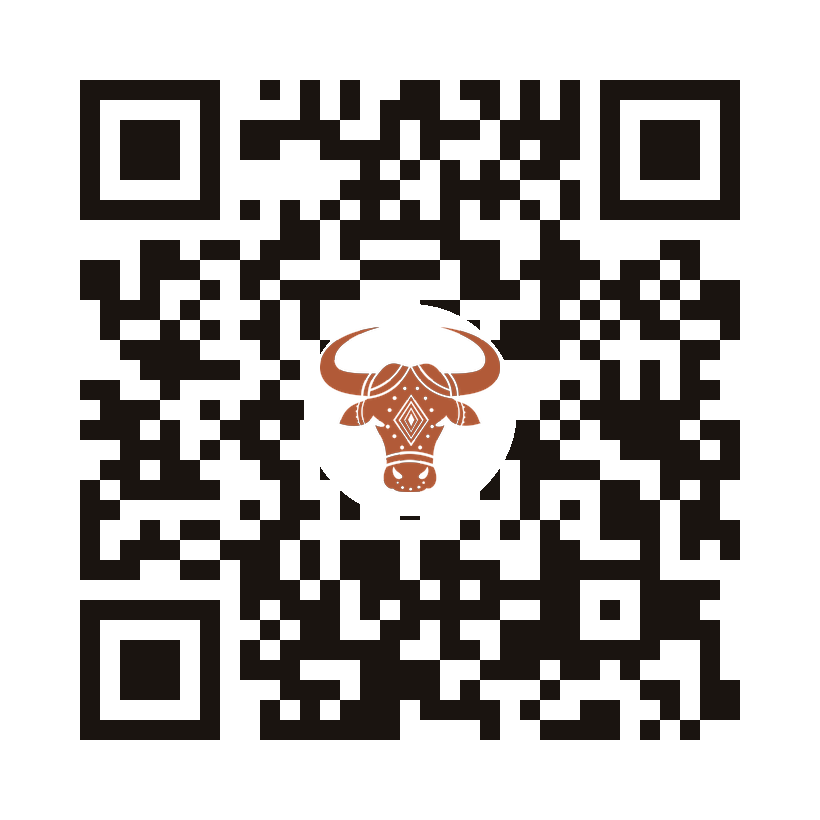
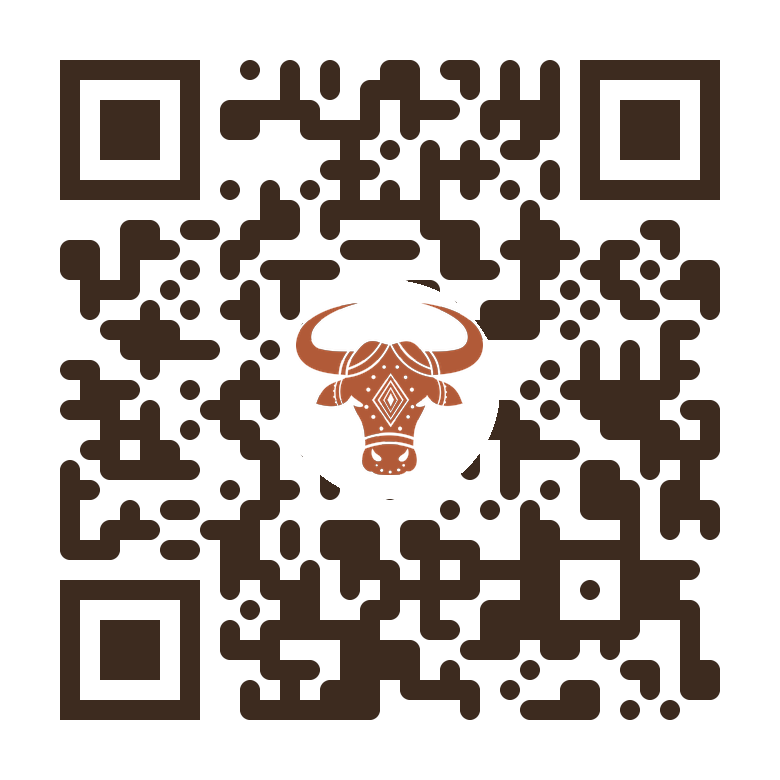
Add QR codes for App Store/Google Play to Get the App page, revise step 2 instructions across EN/FR/AR

diff --git a/ar/get-the-app.html b/ar/get-the-app.html
@@ -81,27 +81,29 @@
       </div>
 
       <div class="app-download-cards">
-        <a href="https://apps.apple.com/app/expo-go/id982107779" target="_blank" rel="noopener noreferrer" class="app-download-card reveal">
+        <div class="app-download-card reveal">
           <div class="app-download-card__icon">
             <svg viewBox="0 0 24 24" fill="currentColor" width="48" height="48"><path d="M18.71 19.5c-.83 1.24-1.71 2.45-3.05 2.47-1.34.03-1.77-.79-3.29-.79-1.53 0-2 .77-3.27.82-1.31.05-2.3-1.32-3.14-2.53C4.25 17 2.94 12.45 4.7 9.39c.87-1.52 2.43-2.48 4.12-2.51 1.28-.02 2.5.87 3.29.87.78 0 2.26-1.07 3.8-.91.65.03 2.47.26 3.64 1.98-.09.06-2.17 1.28-2.15 3.81.03 3.02 2.65 4.03 2.68 4.04-.03.07-.42 1.44-1.38 2.83M13 3.5c.73-.83 1.94-1.46 2.94-1.5.13 1.17-.34 2.35-1.04 3.19-.69.85-1.83 1.51-2.95 1.42-.15-1.15.41-2.35 1.05-3.11z"/></svg>
           </div>
           <h3 class="app-download-card__title">App Store</h3>
-          <p class="app-download-card__desc">حمّل Expo Go لأجهزة iPhone و iPad</p>
-          <span class="app-download-card__link">
-            فتح App Store <i data-feather="external-link"></i>
-          </span>
-        </a>
+          <p class="app-download-card__desc">امسح لتحميل Expo Go لأجهزة iPhone و iPad</p>
+          <img src="../assets/images/qr-appstore.png" alt="رمز QR لتحميل Expo Go من App Store" class="app-download-card__qr">
+          <a href="https://apps.apple.com/app/expo-go/id982107779" target="_blank" rel="noopener noreferrer" class="app-download-card__link">
+            أو افتح الرابط مباشرة <i data-feather="external-link"></i>
+          </a>
+        </div>
 
-        <a href="https://play.google.com/store/apps/details?id=host.exp.exponent" target="_blank" rel="noopener noreferrer" class="app-download-card reveal">
+        <div class="app-download-card reveal">
           <div class="app-download-card__icon">
             <svg viewBox="0 0 24 24" fill="currentColor" width="48" height="48"><path d="M3,20.5V3.5C3,2.91 3.34,2.39 3.84,2.15L13.69,12L3.84,21.85C3.34,21.61 3,21.09 3,20.5M16.81,15.12L6.05,21.34L14.54,12.85L16.81,15.12M20.16,10.81C20.5,11.08 20.75,11.5 20.75,12C20.75,12.5 20.53,12.9 20.18,13.18L17.89,14.5L15.39,12L17.89,9.5L20.16,10.81M6.05,2.66L16.81,8.88L14.54,11.15L6.05,2.66Z"/></svg>
           </div>
           <h3 class="app-download-card__title">Google Play</h3>
-          <p class="app-download-card__desc">حمّل Expo Go لأجهزة Android</p>
-          <span class="app-download-card__link">
-            فتح Google Play <i data-feather="external-link"></i>
-          </span>
-        </a>
+          <p class="app-download-card__desc">امسح لتحميل Expo Go لأجهزة Android</p>
+          <img src="../assets/images/qr-googleplay.png" alt="رمز QR لتحميل Expo Go من Google Play" class="app-download-card__qr">
+          <a href="https://play.google.com/store/apps/details?id=host.exp.exponent" target="_blank" rel="noopener noreferrer" class="app-download-card__link">
+            أو افتح الرابط مباشرة <i data-feather="external-link"></i>
+          </a>
+        </div>
       </div>
     </div>
   </section>
@@ -111,16 +113,16 @@
     <div class="container">
       <div class="section-header text-center reveal">
         <span class="section-eyebrow">الخطوة 2</span>
-        <h2 class="section-title">امسح رمز QR</h2>
+        <h2 class="section-title">امسح رمز QR لتطبيق غرابالي</h2>
         <p class="section-subtitle">
-          بعد تثبيت Expo Go، استخدم كاميرا هاتفك لمسح رمز QR أدناه. سيفتح تطبيق غرابالي مباشرة في Expo Go.
+          بعد تثبيت Expo Go، امسح رمز QR أدناه واضغط على "فتح في Expo Go" لتشغيل تطبيق غرابالي.
         </p>
       </div>
 
       <div class="qr-showcase reveal">
         <div class="qr-showcase__card">
           <img src="../assets/images/qr-garabaly.png" alt="رمز QR لفتح غرابالي في Expo Go" class="qr-showcase__image">
-          <p class="qr-showcase__caption">امسح بالكاميرا أو بتطبيق Expo Go</p>
+          <p class="qr-showcase__caption">رمز QR لتطبيق غرابالي</p>
         </div>
         <div class="qr-showcase__instructions">
           <div class="qr-instruction">
@@ -129,7 +131,7 @@
             </div>
             <div>
               <h4>على iPhone</h4>
-              <p>افتح تطبيق الكاميرا ووجّهه نحو رمز QR. اضغط على الإشعار الذي يظهر لفتح التطبيق في Expo Go.</p>
+              <p>افتح تطبيق الكاميرا ووجّهه نحو رمز QR. اضغط على الإشعار الذي يظهر ثم اختر "فتح في Expo Go".</p>
             </div>
           </div>
           <div class="qr-instruction">
@@ -138,16 +140,7 @@
             </div>
             <div>
               <h4>على Android</h4>
-              <p>افتح تطبيق Expo Go، اضغط على "مسح رمز QR"، ووجّه الكاميرا نحو الرمز. سيتم تحميل تطبيق غرابالي تلقائياً.</p>
-            </div>
-          </div>
-          <div class="qr-instruction">
-            <div class="qr-instruction__icon">
-              <i data-feather="monitor"></i>
-            </div>
-            <div>
-              <h4>على الكمبيوتر</h4>
-              <p>قم بزيارة <a href="https://garabaly.replit.app" target="_blank" rel="noopener noreferrer" style="color: var(--primary); font-weight: 700;">garabaly.replit.app</a> مباشرة في متصفحك لمعاينة النسخة الإلكترونية.</p>
+              <p>افتح تطبيق Expo Go واضغط على "مسح رمز QR". وجّه الكاميرا نحو الرمز واضغط على "فتح في Expo Go".</p>
             </div>
           </div>
         </div>

diff --git a/fr/get-the-app.html b/fr/get-the-app.html
@@ -86,27 +86,29 @@
       </div>
 
       <div class="app-download-cards">
-        <a href="https://apps.apple.com/app/expo-go/id982107779" target="_blank" rel="noopener noreferrer" class="app-download-card reveal">
+        <div class="app-download-card reveal">
           <div class="app-download-card__icon">
             <svg viewBox="0 0 24 24" fill="currentColor" width="48" height="48"><path d="M18.71 19.5c-.83 1.24-1.71 2.45-3.05 2.47-1.34.03-1.77-.79-3.29-.79-1.53 0-2 .77-3.27.82-1.31.05-2.3-1.32-3.14-2.53C4.25 17 2.94 12.45 4.7 9.39c.87-1.52 2.43-2.48 4.12-2.51 1.28-.02 2.5.87 3.29.87.78 0 2.26-1.07 3.8-.91.65.03 2.47.26 3.64 1.98-.09.06-2.17 1.28-2.15 3.81.03 3.02 2.65 4.03 2.68 4.04-.03.07-.42 1.44-1.38 2.83M13 3.5c.73-.83 1.94-1.46 2.94-1.5.13 1.17-.34 2.35-1.04 3.19-.69.85-1.83 1.51-2.95 1.42-.15-1.15.41-2.35 1.05-3.11z"/></svg>
           </div>
           <h3 class="app-download-card__title">App Store</h3>
-          <p class="app-download-card__desc">Téléchargez Expo Go pour iPhone et iPad</p>
-          <span class="app-download-card__link">
-            Ouvrir l'App Store <i data-feather="external-link"></i>
-          </span>
-        </a>
+          <p class="app-download-card__desc">Scannez pour télécharger Expo Go pour iPhone et iPad</p>
+          <img src="../assets/images/qr-appstore.png" alt="QR code pour Expo Go sur l'App Store" class="app-download-card__qr">
+          <a href="https://apps.apple.com/app/expo-go/id982107779" target="_blank" rel="noopener noreferrer" class="app-download-card__link">
+            Ou ouvrir le lien directement <i data-feather="external-link"></i>
+          </a>
+        </div>
 
-        <a href="https://play.google.com/store/apps/details?id=host.exp.exponent" target="_blank" rel="noopener noreferrer" class="app-download-card reveal">
+        <div class="app-download-card reveal">
           <div class="app-download-card__icon">
             <svg viewBox="0 0 24 24" fill="currentColor" width="48" height="48"><path d="M3,20.5V3.5C3,2.91 3.34,2.39 3.84,2.15L13.69,12L3.84,21.85C3.34,21.61 3,21.09 3,20.5M16.81,15.12L6.05,21.34L14.54,12.85L16.81,15.12M20.16,10.81C20.5,11.08 20.75,11.5 20.75,12C20.75,12.5 20.53,12.9 20.18,13.18L17.89,14.5L15.39,12L17.89,9.5L20.16,10.81M6.05,2.66L16.81,8.88L14.54,11.15L6.05,2.66Z"/></svg>
           </div>
           <h3 class="app-download-card__title">Google Play</h3>
-          <p class="app-download-card__desc">Téléchargez Expo Go pour Android</p>
-          <span class="app-download-card__link">
-            Ouvrir Google Play <i data-feather="external-link"></i>
-          </span>
-        </a>
+          <p class="app-download-card__desc">Scannez pour télécharger Expo Go pour Android</p>
+          <img src="../assets/images/qr-googleplay.png" alt="QR code pour Expo Go sur Google Play" class="app-download-card__qr">
+          <a href="https://play.google.com/store/apps/details?id=host.exp.exponent" target="_blank" rel="noopener noreferrer" class="app-download-card__link">
+            Ou ouvrir le lien directement <i data-feather="external-link"></i>
+          </a>
+        </div>
       </div>
     </div>
   </section>
@@ -116,16 +118,16 @@
     <div class="container">
       <div class="section-header text-center reveal">
         <span class="section-eyebrow">Étape 2</span>
-        <h2 class="section-title">Scannez le QR Code</h2>
+        <h2 class="section-title">Scannez le QR Code Garabaly</h2>
         <p class="section-subtitle">
-          Une fois Expo Go installé, utilisez l'appareil photo de votre téléphone pour scanner le QR code ci-dessous. Cela ouvrira l'application Garabaly directement dans Expo Go.
+          Une fois Expo Go installé, scannez le QR code ci-dessous et appuyez sur « Ouvrir dans Expo Go » pour lancer l'application Garabaly.
         </p>
       </div>
 
       <div class="qr-showcase reveal">
         <div class="qr-showcase__card">
           <img src="../assets/images/qr-garabaly.png" alt="QR code pour ouvrir Garabaly dans Expo Go" class="qr-showcase__image">
-          <p class="qr-showcase__caption">Scannez avec votre appareil photo ou l'application Expo Go</p>
+          <p class="qr-showcase__caption">QR Code de l'application Garabaly</p>
         </div>
         <div class="qr-showcase__instructions">
           <div class="qr-instruction">
@@ -134,7 +136,7 @@
             </div>
             <div>
               <h4>Sur iPhone</h4>
-              <p>Ouvrez l'application Appareil photo et pointez-la vers le QR code. Appuyez sur la notification qui apparaît pour ouvrir l'application dans Expo Go.</p>
+              <p>Ouvrez l'application Appareil photo et pointez-la vers le QR code. Appuyez sur la notification qui apparaît, puis sélectionnez « Ouvrir dans Expo Go ».</p>
             </div>
           </div>
           <div class="qr-instruction">
@@ -143,16 +145,7 @@
             </div>
             <div>
               <h4>Sur Android</h4>
-              <p>Ouvrez l'application Expo Go, appuyez sur « Scanner le QR Code », et pointez votre appareil photo vers le code. L'application Garabaly se chargera automatiquement.</p>
-            </div>
-          </div>
-          <div class="qr-instruction">
-            <div class="qr-instruction__icon">
-              <i data-feather="monitor"></i>
-            </div>
-            <div>
-              <h4>Sur ordinateur</h4>
-              <p>Visitez <a href="https://garabaly.replit.app" target="_blank" rel="noopener noreferrer" style="color: var(--primary); font-weight: 700;">garabaly.replit.app</a> directement dans votre navigateur pour prévisualiser la version web.</p>
+              <p>Ouvrez l'application Expo Go et appuyez sur « Scanner le QR Code ». Pointez votre appareil photo vers le code et appuyez sur « Ouvrir dans Expo Go ».</p>
             </div>
           </div>
         </div>

diff --git a/get-the-app.html b/get-the-app.html
@@ -87,27 +87,29 @@
       </div>
 
       <div class="app-download-cards">
-        <a href="https://apps.apple.com/app/expo-go/id982107779" target="_blank" rel="noopener noreferrer" class="app-download-card reveal">
+        <div class="app-download-card reveal">
           <div class="app-download-card__icon">
             <svg viewBox="0 0 24 24" fill="currentColor" width="48" height="48"><path d="M18.71 19.5c-.83 1.24-1.71 2.45-3.05 2.47-1.34.03-1.77-.79-3.29-.79-1.53 0-2 .77-3.27.82-1.31.05-2.3-1.32-3.14-2.53C4.25 17 2.94 12.45 4.7 9.39c.87-1.52 2.43-2.48 4.12-2.51 1.28-.02 2.5.87 3.29.87.78 0 2.26-1.07 3.8-.91.65.03 2.47.26 3.64 1.98-.09.06-2.17 1.28-2.15 3.81.03 3.02 2.65 4.03 2.68 4.04-.03.07-.42 1.44-1.38 2.83M13 3.5c.73-.83 1.94-1.46 2.94-1.5.13 1.17-.34 2.35-1.04 3.19-.69.85-1.83 1.51-2.95 1.42-.15-1.15.41-2.35 1.05-3.11z"/></svg>
           </div>
           <h3 class="app-download-card__title">App Store</h3>
-          <p class="app-download-card__desc">Download Expo Go for iPhone & iPad</p>
-          <span class="app-download-card__link">
-            Open App Store <i data-feather="external-link"></i>
-          </span>
-        </a>
+          <p class="app-download-card__desc">Scan to download Expo Go for iPhone & iPad</p>
+          <img src="assets/images/qr-appstore.png" alt="QR code for Expo Go on App Store" class="app-download-card__qr">
+          <a href="https://apps.apple.com/app/expo-go/id982107779" target="_blank" rel="noopener noreferrer" class="app-download-card__link">
+            Or open link directly <i data-feather="external-link"></i>
+          </a>
+        </div>
 
-        <a href="https://play.google.com/store/apps/details?id=host.exp.exponent" target="_blank" rel="noopener noreferrer" class="app-download-card reveal">
+        <div class="app-download-card reveal">
           <div class="app-download-card__icon">
             <svg viewBox="0 0 24 24" fill="currentColor" width="48" height="48"><path d="M3,20.5V3.5C3,2.91 3.34,2.39 3.84,2.15L13.69,12L3.84,21.85C3.34,21.61 3,21.09 3,20.5M16.81,15.12L6.05,21.34L14.54,12.85L16.81,15.12M20.16,10.81C20.5,11.08 20.75,11.5 20.75,12C20.75,12.5 20.53,12.9 20.18,13.18L17.89,14.5L15.39,12L17.89,9.5L20.16,10.81M6.05,2.66L16.81,8.88L14.54,11.15L6.05,2.66Z"/></svg>
           </div>
           <h3 class="app-download-card__title">Google Play</h3>
-          <p class="app-download-card__desc">Download Expo Go for Android</p>
-          <span class="app-download-card__link">
-            Open Google Play <i data-feather="external-link"></i>
-          </span>
-        </a>
+          <p class="app-download-card__desc">Scan to download Expo Go for Android</p>
+          <img src="assets/images/qr-googleplay.png" alt="QR code for Expo Go on Google Play" class="app-download-card__qr">
+          <a href="https://play.google.com/store/apps/details?id=host.exp.exponent" target="_blank" rel="noopener noreferrer" class="app-download-card__link">
+            Or open link directly <i data-feather="external-link"></i>
+          </a>
+        </div>
       </div>
     </div>
   </section>
@@ -126,34 +128,28 @@
       <div class="qr-showcase reveal">
         <div class="qr-showcase__card">
           <img src="assets/images/qr-garabaly.png" alt="QR code to open Garabaly in Expo Go" class="qr-showcase__image">
-          <p class="qr-showcase__caption">Scan with your camera or Expo Go app</p>
+          <p class="qr-showcase__caption">Scan to open Garabaly in Expo Go</p>
         </div>
         <div class="qr-showcase__instructions">
           <div class="qr-instruction">
-            <div class="qr-instruction__icon">
-              <i data-feather="camera"></i>
-            </div>
+            <div class="qr-instruction__number">1</div>
             <div>
-              <h4>On iPhone</h4>
-              <p>Open your Camera app and point it at the QR code. Tap the notification banner that appears to open the app in Expo Go.</p>
+              <h4>Scan the QR Code</h4>
+              <p>Open your phone's camera (iPhone) or the Expo Go app (Android) and point it at the QR code on the left.</p>
             </div>
           </div>
           <div class="qr-instruction">
-            <div class="qr-instruction__icon">
-              <i data-feather="smartphone"></i>
-            </div>
+            <div class="qr-instruction__number">2</div>
             <div>
-              <h4>On Android</h4>
-              <p>Open the Expo Go app, tap "Scan QR Code", and point your camera at the code. The Garabaly app will load automatically.</p>
+              <h4>Tap "Open in Expo Go"</h4>
+              <p>A notification banner will appear on your screen. Tap it to launch the Garabaly app inside Expo Go.</p>
             </div>
           </div>
           <div class="qr-instruction">
-            <div class="qr-instruction__icon">
-              <i data-feather="monitor"></i>
-            </div>
+            <div class="qr-instruction__number">3</div>
             <div>
-              <h4>On Desktop</h4>
-              <p>Visit <a href="https://garabaly.replit.app" target="_blank" rel="noopener noreferrer" style="color: var(--primary); font-weight: 700;">garabaly.replit.app</a> directly in your browser to preview the web version.</p>
+              <h4>Explore & Enjoy</h4>
+              <p>Browse livestock listings, chat with sellers, negotiate prices, and discover the full Garabaly experience on your phone.</p>
             </div>
           </div>
         </div>

diff --git a/css/styles.css b/css/styles.css
@@ -2757,7 +2757,15 @@ html:not(.js-ready) .reveal {
 .app-download-card__desc {
   font-size: var(--font-body);
   color: var(--text-secondary);
-  margin-bottom: var(--space-lg);
+  margin-bottom: var(--space-md);
+}
+
+.app-download-card__qr {
+  width: 180px;
+  height: 180px;
+  border-radius: var(--radius-lg);
+  margin: 0 auto var(--space-md);
+  display: block;
 }
 
 .app-download-card__link {
@@ -2767,6 +2775,7 @@ html:not(.js-ready) .reveal {
   font-weight: 700;
   color: var(--primary);
   font-size: var(--font-body);
+  text-decoration: none;
 }
 
 .app-download-card__link svg {
